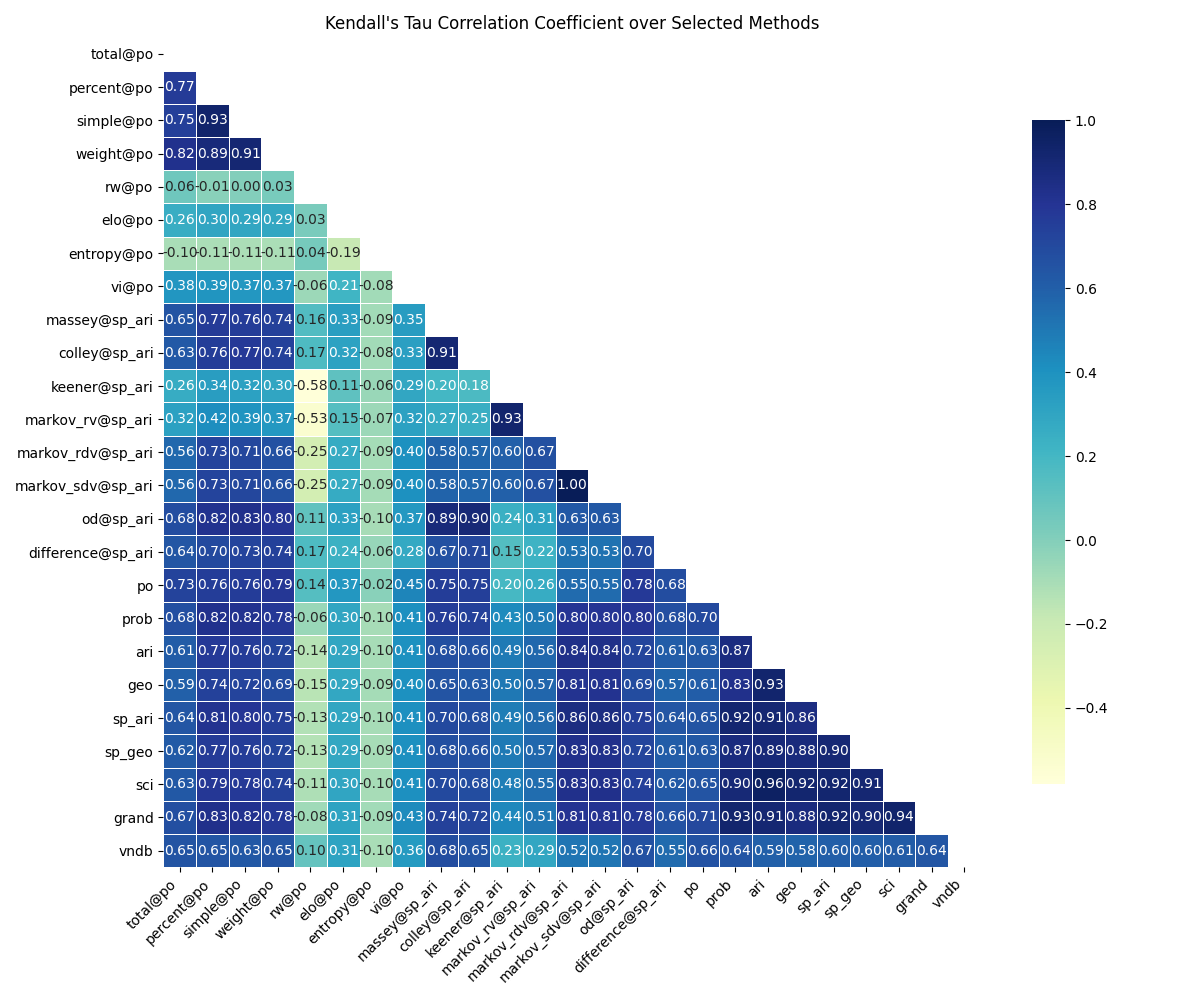
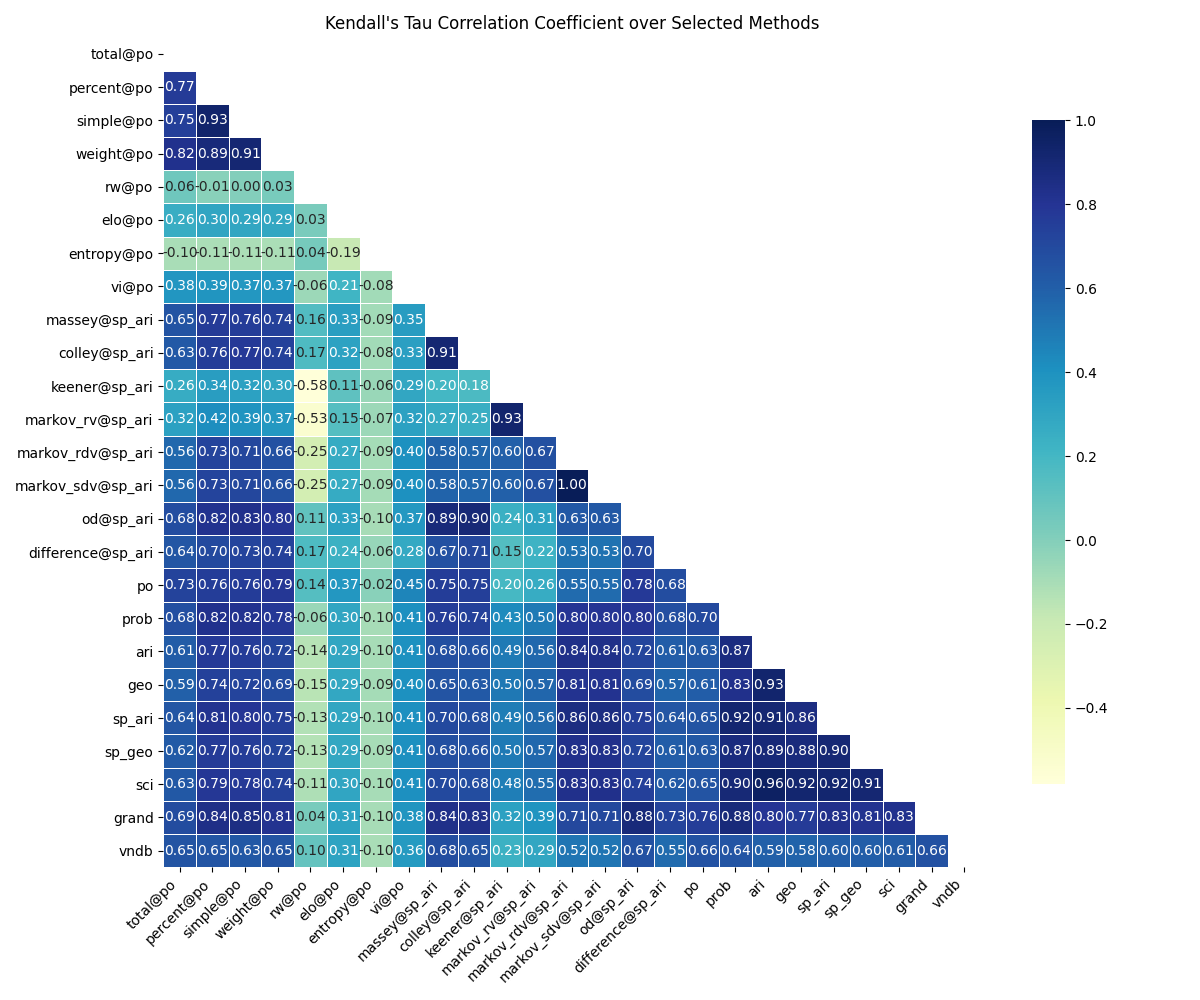
update grand algorithm

diff --git a/dev/main.py b/dev/main.py
@@ -643,7 +643,7 @@ def merge_rank():
     for i in range(5):
         bcount[:, i+1] = borda_count_rewritten(rank_rankit.iloc[:, i*8:i*8+8])
     bcount[:, 6] = borda_count_rewritten(bcount[:, 1:4])
-    bcount[:, 7] = borda_count_rewritten(bcount[:, 0:6])
+    bcount[:, 7] = borda_count_rewritten(rank_rankit.iloc[:, [0, 1, 4, 5, 6, 7, 24, 25, 28, 29, 30, 31, 32, 33, 36, 37, 38, 39]])
     bcount = pd.DataFrame(bcount, columns=['po', 'prob', 'ari', 'geo', 'sp_ari', 'sp_geo', 'sci', 'grand'])
     bcount['vid'] = rank_po['vid']
     bcount.to_csv(os.path.join(tmp, "borda_merge.csv"), index=False)
@@ -734,5 +734,10 @@ def visualize_rank():
 # ari_geo()
 # create_rank()
 # create_rankit()
-# merge_rank()
+merge_rank()
 visualize_rank()
+
+def main():
+    _vn()
+    _ulist_vns()
+    partial_order()
